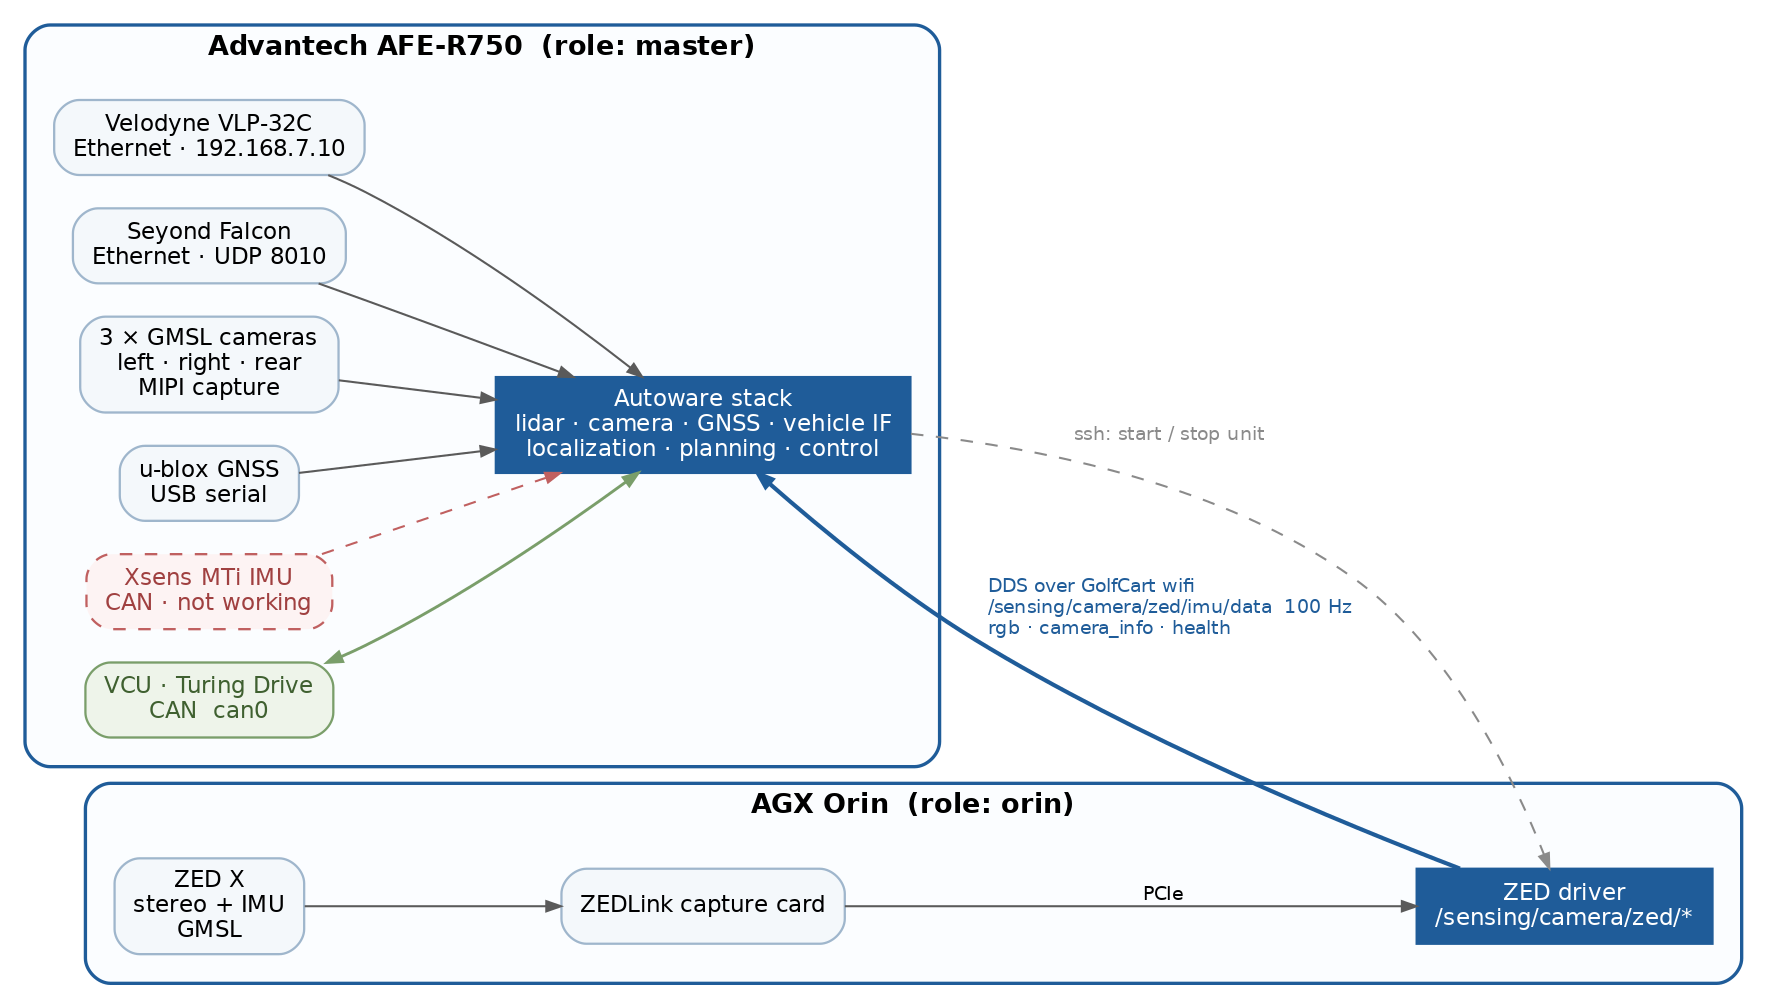
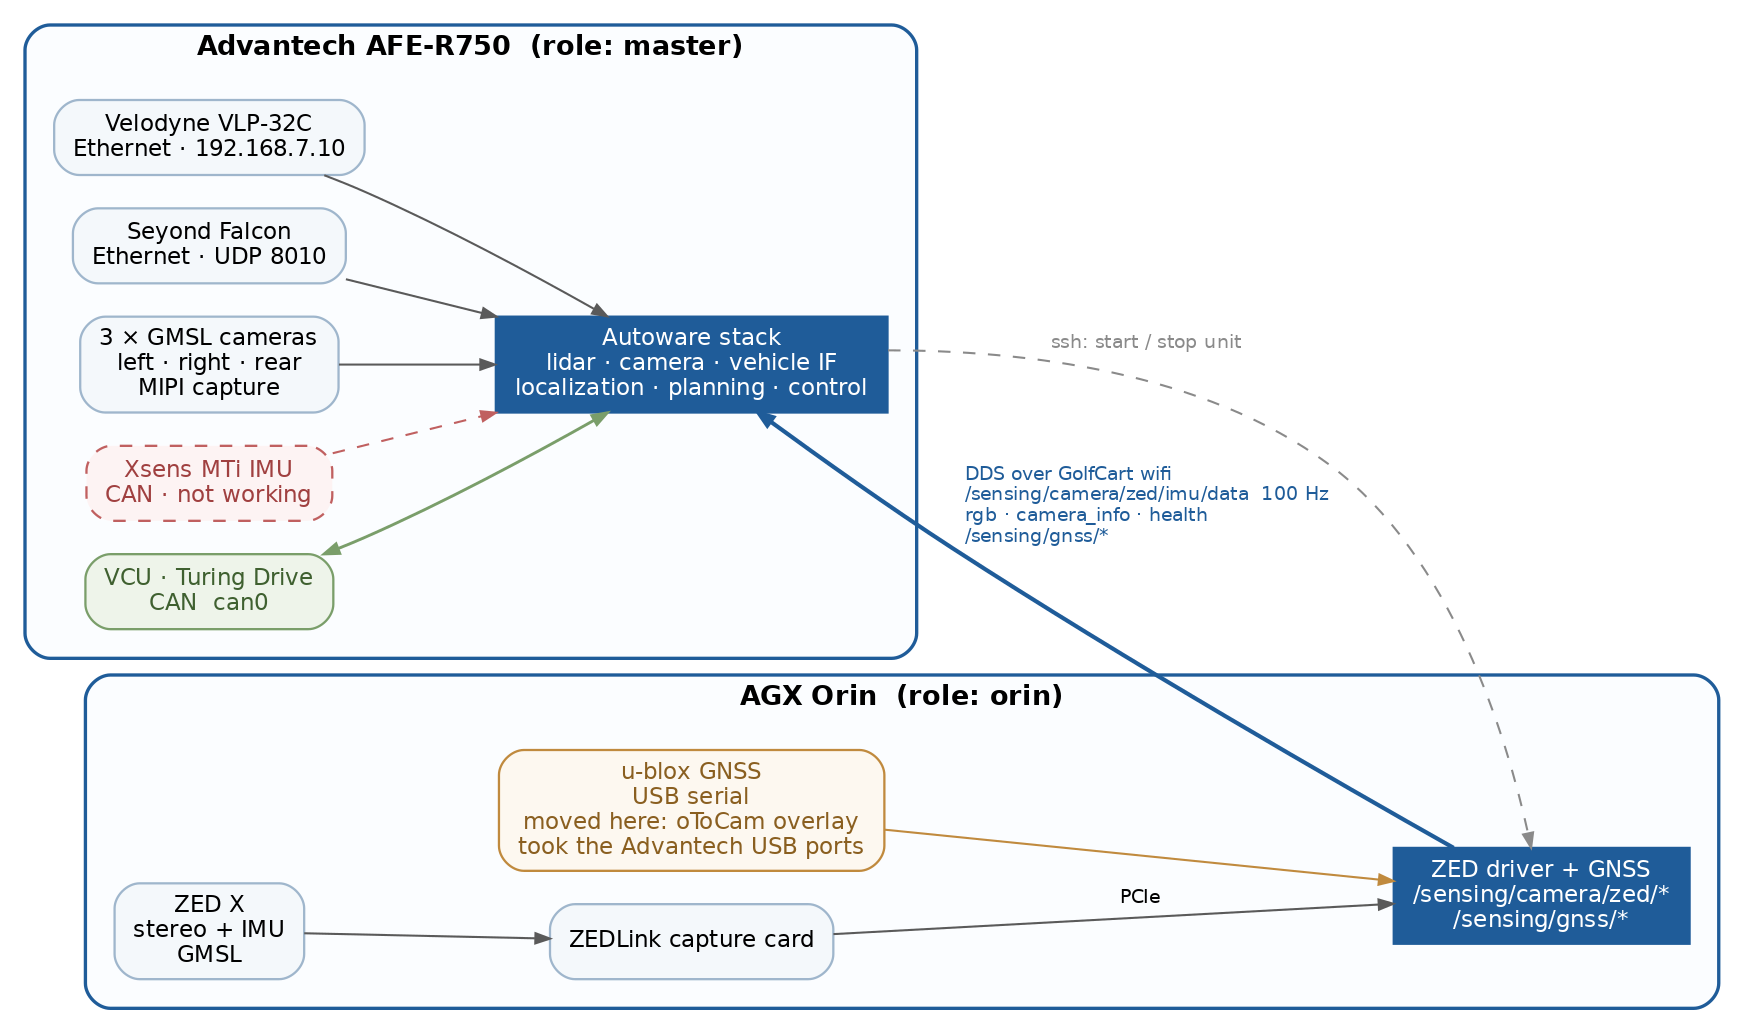
docs(report): u-blox is on the Orin, not the Advantech
Confirmed with the team: the Falcon works, and the u-blox works but has moved to
the Orin because the Advantech is short of USB ports.

Worth stating as cause and effect rather than as a fact about the wiring: the
oToCam device tree overlay is what took those ports, and the u-blox is the only
USB sensor on the vehicle, so it had to go to the machine that still had them.
The overlay's cost is not 'USB stops working', which sounds recoverable -- it is
that a working sensor ended up on the far side of a wifi link from the LiDARs
whose localization it initialises.

Diagram: GNSS moved into the Orin cluster and coloured to carry the reason, its
topics added to the DDS link label, and dropped from the Advantech stack's role
list -- that host now consumes the pose rather than driving the receiver.

This exposes two stale configs, recorded in the outline rather than fixed here:
the launch host profile gives the Orin 'ZED camera only' so the u-blox driver
never starts there, and master_topics.txt records the GNSS topics while
orin_topics.txt has none -- the host without the device is the one told to
record it.

Claude-Session: https://claude.ai/code/session_01UvAiV3fKR37M16M6Rv4vxv

diff --git a/docs/reports/OUTLINE.md b/docs/reports/OUTLINE.md
@@ -25,12 +25,16 @@ Slide 3 is the spine of the talk. Everything after it is a zoom-in.
 | # | Slide | Content | Asset |
 |---|---|---|---|
 | 4 | Sensor set | VLP-32C, Falcon, 3× GMSL, ZED X, u-blox, IMU — and which host each lives on | (reuse wiring, dimmed) |
-| 5 | **oToCam: the overlay costs you the USB ports** | IMX390 + MAX9296; vendor `.ko` + DT overlay; enabling the overlay kills USB. Declarative fix in `scripts/hardware/otocam/`. ABI-bound to kernel `5.15.148-tegra`; a JetPack OTA silently reverts it | — |
+| 5 | **oToCam: the overlay costs you the USB ports** | IMX390 + MAX9296; vendor `.ko` + DT overlay; enabling the overlay kills USB — **so the u-blox GNSS had to move to the Orin**. Declarative fix in `scripts/hardware/otocam/`. ABI-bound to kernel `5.15.148-tegra`; a JetPack OTA silently reverts it | — |
 | 6 | **oToCam: a conversion with no GPU element** | Cameras emit UYVY, consumers want RGB/JPEG, no GPU GStreamer element found to convert → CPU `videoconvert`, once per camera, 3 × 1920×1280 × 30 fps. `gmslcam` is the planned fix | — |
-| 7 | IMU reality | Xsens MTi on CAN is not working → the stack runs on the **ZED X built-in IMU**, which lives on the other machine and crosses the DDS link at 100 Hz | (wiring, IMU path highlighted) |
+| 7 | IMU reality | Xsens MTi on CAN is not working → the stack runs on the **ZED X built-in IMU**, which lives on the other machine and crosses the DDS link at 100 Hz. The GNSS now crosses the same link, for an unrelated reason | (wiring, IMU path highlighted) |
 
 **LSV relevance:** GMSL camera bring-up on Jetson is a shared pain. The overlay/USB
 tradeoff and the missing GPU colour-conversion path are both reusable warnings.
+
+The cascade is the memorable part and slide 5 should land it explicitly: a camera
+device-tree overlay ended up deciding **which machine the GNSS lives on**, and
+therefore that the GNSS fix crosses a wifi link. Nobody plans that; it falls out.
 
 ---
 
@@ -111,8 +115,21 @@ Inferred from the repo, not from anyone's judgement. Correct these.
 | Data collection | **done** | 3 sets recorded and replayable | data has the fragmentation and latency defects |
 | Autonomous run | **not started** | no evidence in repo | gated on the VCU blocker |
 
-Also unconfirmed: whether the Seyond Falcon is still fitted, and whether the
-u-blox is fitted (both drawn as present in the wiring diagram).
+Confirmed 2026-08-19: **Falcon working. u-blox working, but moved to the Orin**
+because the Advantech is short of USB ports — the oToCam overlay took them.
+Diagram updated.
+
+**Mismatch this exposes, and it is not cosmetic.** The software still places the
+GNSS on the master:
+
+- `golfcart.launch.yaml` host profile: `orin -> ZED camera only`, master gets
+  everything else — so on the Orin the u-blox driver is never started.
+- `config/recording/master_topics.txt` lists `/sensing/gnss/*`;
+  `orin_topics.txt` lists no GNSS at all — so the host without the device is the
+  one told to record it, against this repo's own first-hand-topics rule.
+
+Neither is a deck problem, but both are real and should be fixed before the next
+recording run, or the GNSS is silently absent from it. Say the word and I will.
 
 ## Deliberately out
 

diff --git a/docs/reports/notes-otocam.md b/docs/reports/notes-otocam.md
@@ -20,6 +20,16 @@ agxorin/oto.dtbo
 ports stop working. So the platform cannot simply be configured once — the
 overlay is not free, it takes something else away.
 
+**What it took away, concretely: the GNSS.** The u-blox is the one USB sensor on
+the vehicle, and it now runs on the *Orin* rather than the Advantech, because the
+Advantech no longer has the ports to give it. That is the strongest way to state
+the cost of this overlay on a slide — not "USB stops working", which sounds
+recoverable, but "a working sensor had to move to the other machine". It also
+explains a piece of the wiring diagram that otherwise looks arbitrary: the GNSS
+sits on the machine with the camera, far from the LiDARs it is supposed to
+initialise localization for, and its fix now crosses the DDS link exactly like
+the ZED IMU does.
+
 We went through a workaround; the setup is now declarative rather than
 vendor-script driven, in `scripts/hardware/otocam/`
 ([README](https://github.com/NEWSLabNTU/2026-golf-cart/blob/3a155a66754f980b1ed43f92c8a7dd5744345df9/scripts/hardware/otocam/README.md)):
